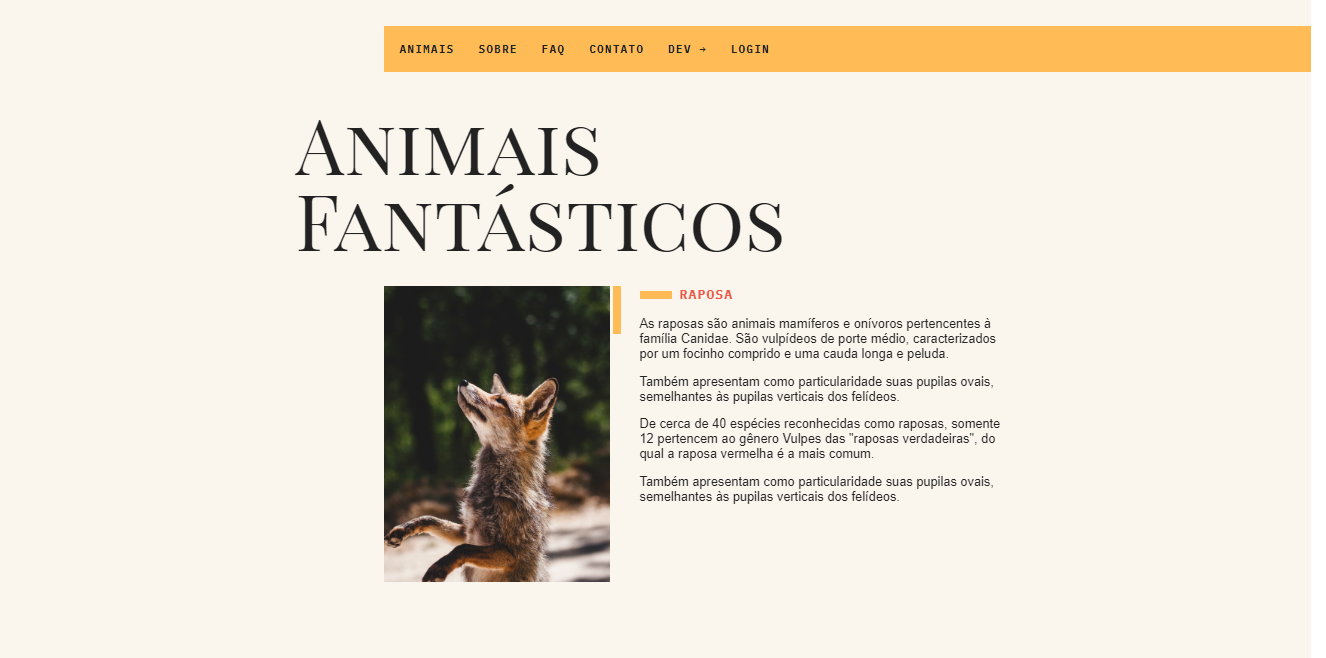
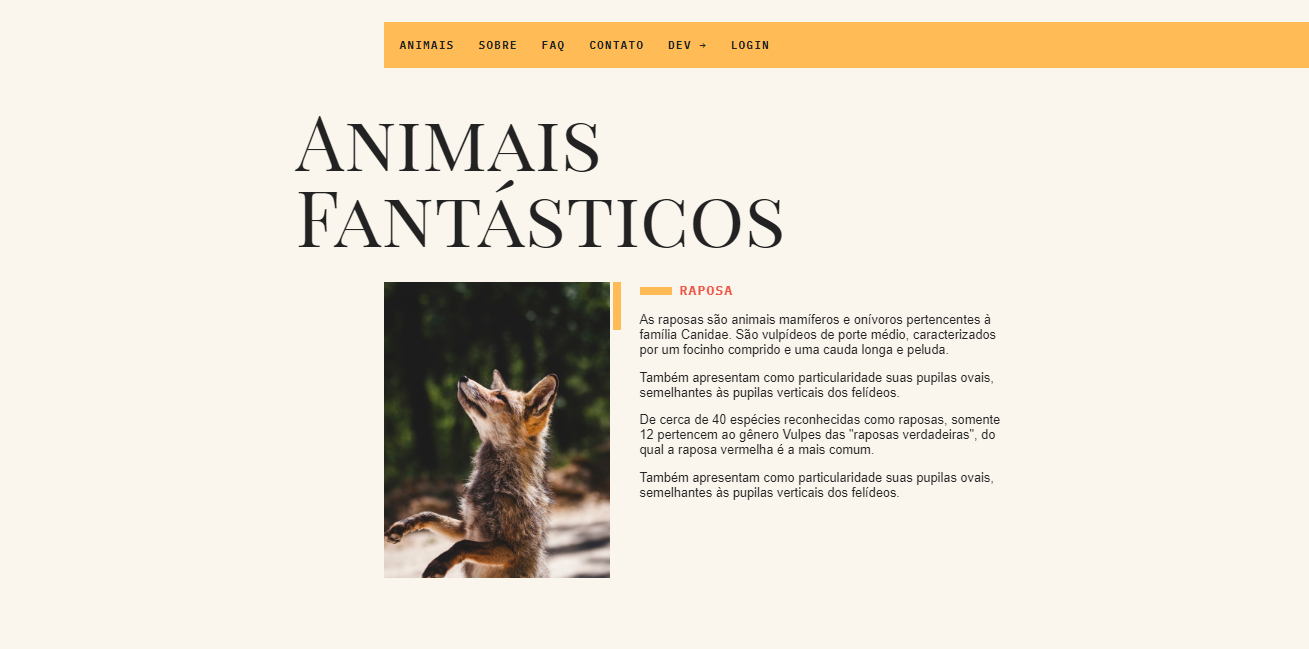
built certificates section; adjusted link redirection and list style

Changed region(s): [[0.275, 0.4314, 0.7639, 0.8937], [0.2139, 0.1849, 0.6112, 0.4006], [0.275, 0.0308, 1.0, 0.1233]]

diff --git a/index.html b/index.html
@@ -21,8 +21,8 @@
           <li><a href="#experience"><i class="fas fa-briefcase"></i><span class="link-text">Experiência</span></a></li>
           <li><a href="#education"><i class="fas fa-graduation-cap"></i><span class="link-text">Educação</span></a></li>
           <li><a href="#skills"><i class="fas fa-code"></i><span class="link-text">Skills</span></a></li>
-          <li><a href="#"><i class="fas fa-book"></i><span class="link-text">Projetos</span></a></li>
-          <li><a href="#"><i class="fas fa-award"></i><span class="link-text">Certificados</span></a></li>
+          <li><a href="#projects"><i class="fas fa-book"></i><span class="link-text">Projetos</span></a></li>
+          <li><a href="#certificates"><i class="fas fa-award"></i><span class="link-text">Certificados</span></a></li>
         </ul>
       </div>
     </nav>
@@ -140,11 +140,32 @@
           </div>
         </div>
         <ul class="projects-grid">
-          <li><img src="img/animais-fantásticos.png" alt=""></li>
-          <li><img src="img/Form-Practice.png" alt=""></li>
-          <li><img src="img/leovdn.github.io.png" alt=""></li>
-          <li><img src="img/btn-creator.png" alt=""></li>
+          <li><a href="https://leovdn.github.io/form-practice/" target="_blank"><img src="img/Form-Practice.png" alt=""></a></li>
+          <li><a href="http://leovdn.github.io/repo-project/" target="_blank"><img src="img/leovdn.github.io.png" alt=""></a></li>
+          <li><a href="https://leovdn.github.io/button-creator/" target="_blank"><img src="img/btn-creator.png" alt=""></a></li>
+          <li><a href="https://leovdn.github.io/animais-fantasticos/" target="_blank"><img src="img/animais-fantásticos.png" alt=""></a></li>
+        </ul>
+      </div>      
+    </section>
 
+    <hr class="division"></hr>
+
+    <section class="resume-section" id="certificates">
+      <h2>Certificados</h2>
+      <div class="content">
+        <div class="item">
+          <div>
+            <h4>Diplomas e Certificados</h4>
+          </div>
+        </div>
+        <ul class="projects-grid">
+          <li><a href="https://www.origamid.com/certificate/64f8f8c4/" target="_blank"><img src="img/certificate-bootstrap4-origamid.png" alt=""></a></li>
+          <li><a href="https://www.origamid.com/certificate/d8018de0/" target="_blank"><img src="img/certificate-webDesign-origamid.png" alt=""></a></li>
+          <li><a href="https://www.origamid.com/certificate/3c84bd85/" target="_blank"><img src="img/certificate-flex-origamid.png" alt=""></a></li>
+          <li><a href="https://www.origamid.com/certificate/99b2fd62/" target="_blank"><img src="img/certificate-grid-origamid.png" alt=""></a></li>
+          <li><a href="https://www.origamid.com/certificate/b6bf7bf7/" target="_blank"><img src="img/certificate-cssAdv-origamid.png" alt=""></a></li>
+          <li><a href="https://www.origamid.com/certificate/5c1f0b70/" target="_blank"><img src="img/certificate-adobeXD-origamid.png" alt=""></a></li>
+          <li><a href="https://drive.google.com/file/d/1gg0FyFZVgCNV__ALIgW3dLZZsKPoMwzo/view" target="_blank"><img src="img/certificate-SAP-EN-01.png" alt=""></a></li>
         </ul>
       </div>
       

diff --git a/styles.css b/styles.css
@@ -194,13 +194,26 @@ hr {
   display: grid;
   grid-template-columns: 1fr 1fr;
   gap: 24px;
-  padding: 18px;
+  padding: 32px ;
+  margin-top: 24px;
+  border: 1px solid #282c345e;
+  border-radius: 4px;
+}
+
+.projects-grid li {
+  border-radius: 4px;
 }
 
 .projects-grid li img {
+  border-radius: 4px;
   max-width: 100%;
   width: 100%;
-  box-shadow: 2px 2px 4px rgba(0, 0, 0, 0.3);
+  box-shadow: 0px 0px 2px rgba(0, 0, 0, 0.3);
+  transition: 200ms;
+}
+
+.projects-grid li img:hover {
+  transform: scale(1.05);
 }
 
 
@@ -288,5 +301,9 @@ hr {
   }
   .fas  {
     font-size: 1.5em;
+  }
+  .projects-grid {
+    grid-template-columns: 1fr;
+    
   }
 }
